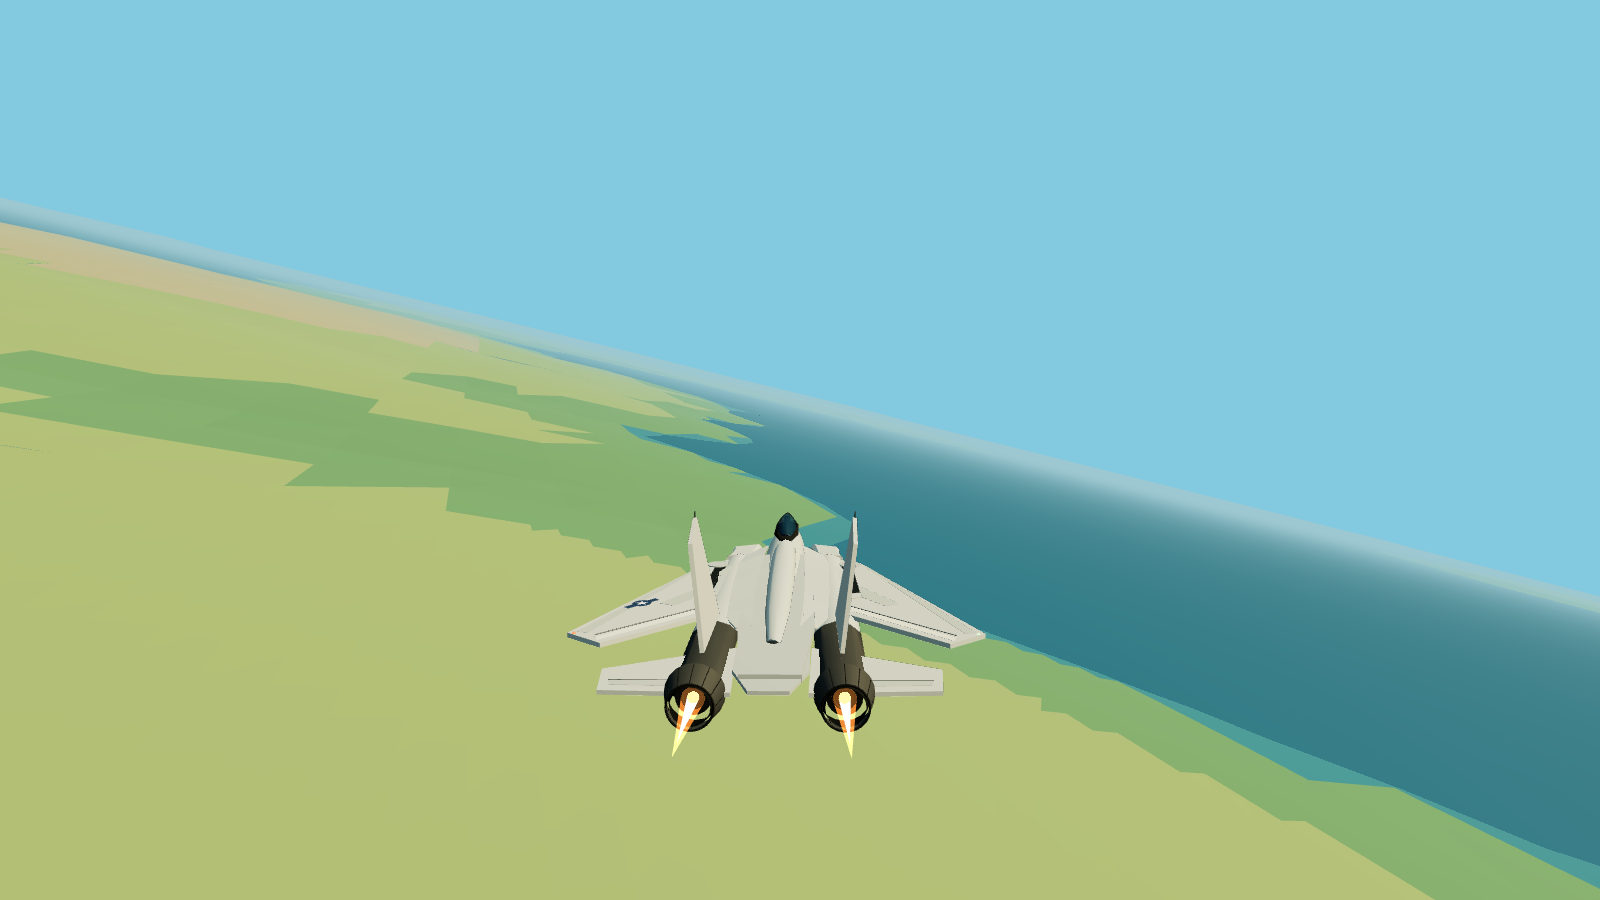
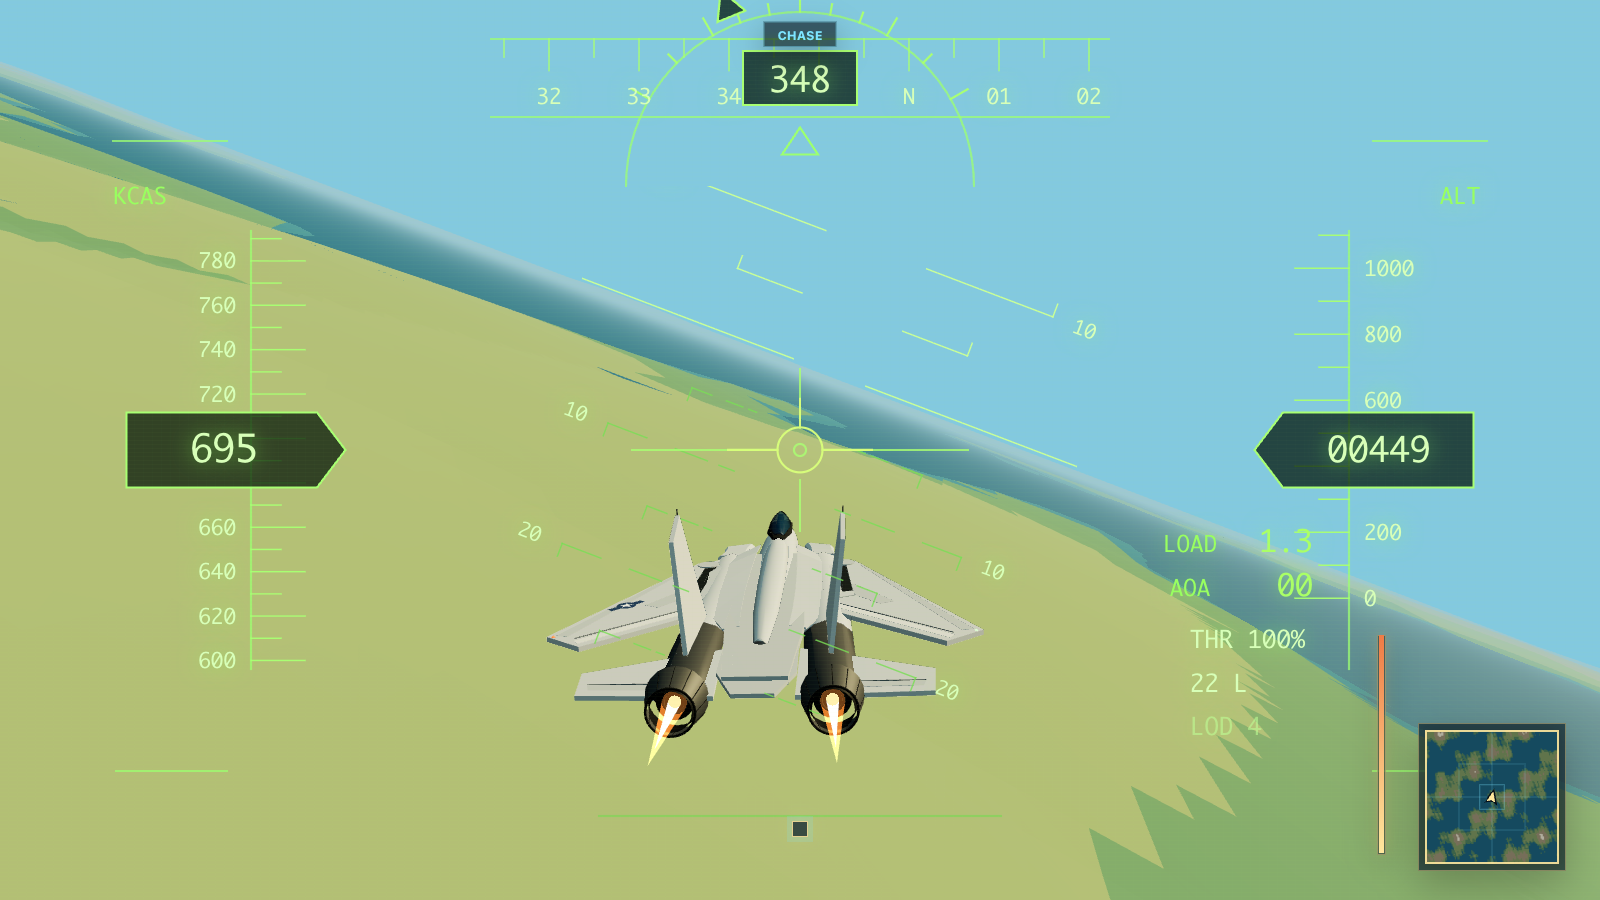
Show HUD in README screenshot

diff --git a/README.md b/README.md
@@ -1,8 +1,8 @@
 # LCR Retro Flight Sim
 
-![A low-poly variable-sweep jet flying above procedural coastal terrain](docs/images/lcr-retro-flight-sim.png)
+![A low-poly variable-sweep jet banking above procedural coastal terrain with a modern head-up display](docs/images/lcr-retro-flight-sim.png)
 
-*Rear follow-camera view from the current Three.js build; the in-game HUD is hidden for presentation.*
+*Rear follow-camera view from the current Three.js build with the in-game HUD active.*
 
 This development demo was built with [Little Control Room](https://github.com/dpasca/LittleControlRoom), using GPT-5.5 and GPT-5.6-Sol.
 